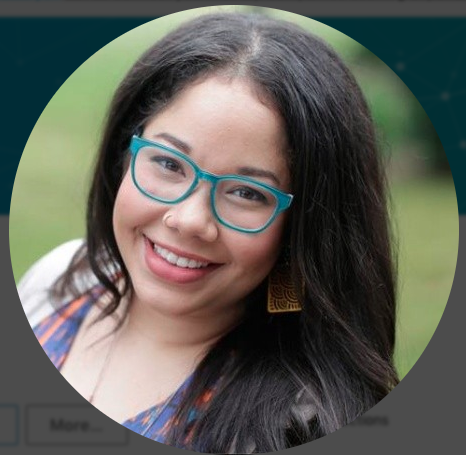
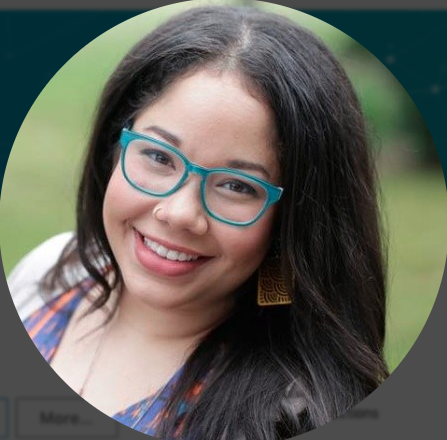
Add all images for team

diff --git a/app/assets/stylesheets/about_us.scss b/app/assets/stylesheets/about_us.scss
@@ -68,7 +68,7 @@
   border-radius: 0;
   background-color: orange;
   text-align: center;
-  height: 380px;
+  height: 350px;
 }
 .jumbotron h1 {
   margin-top: 0;
